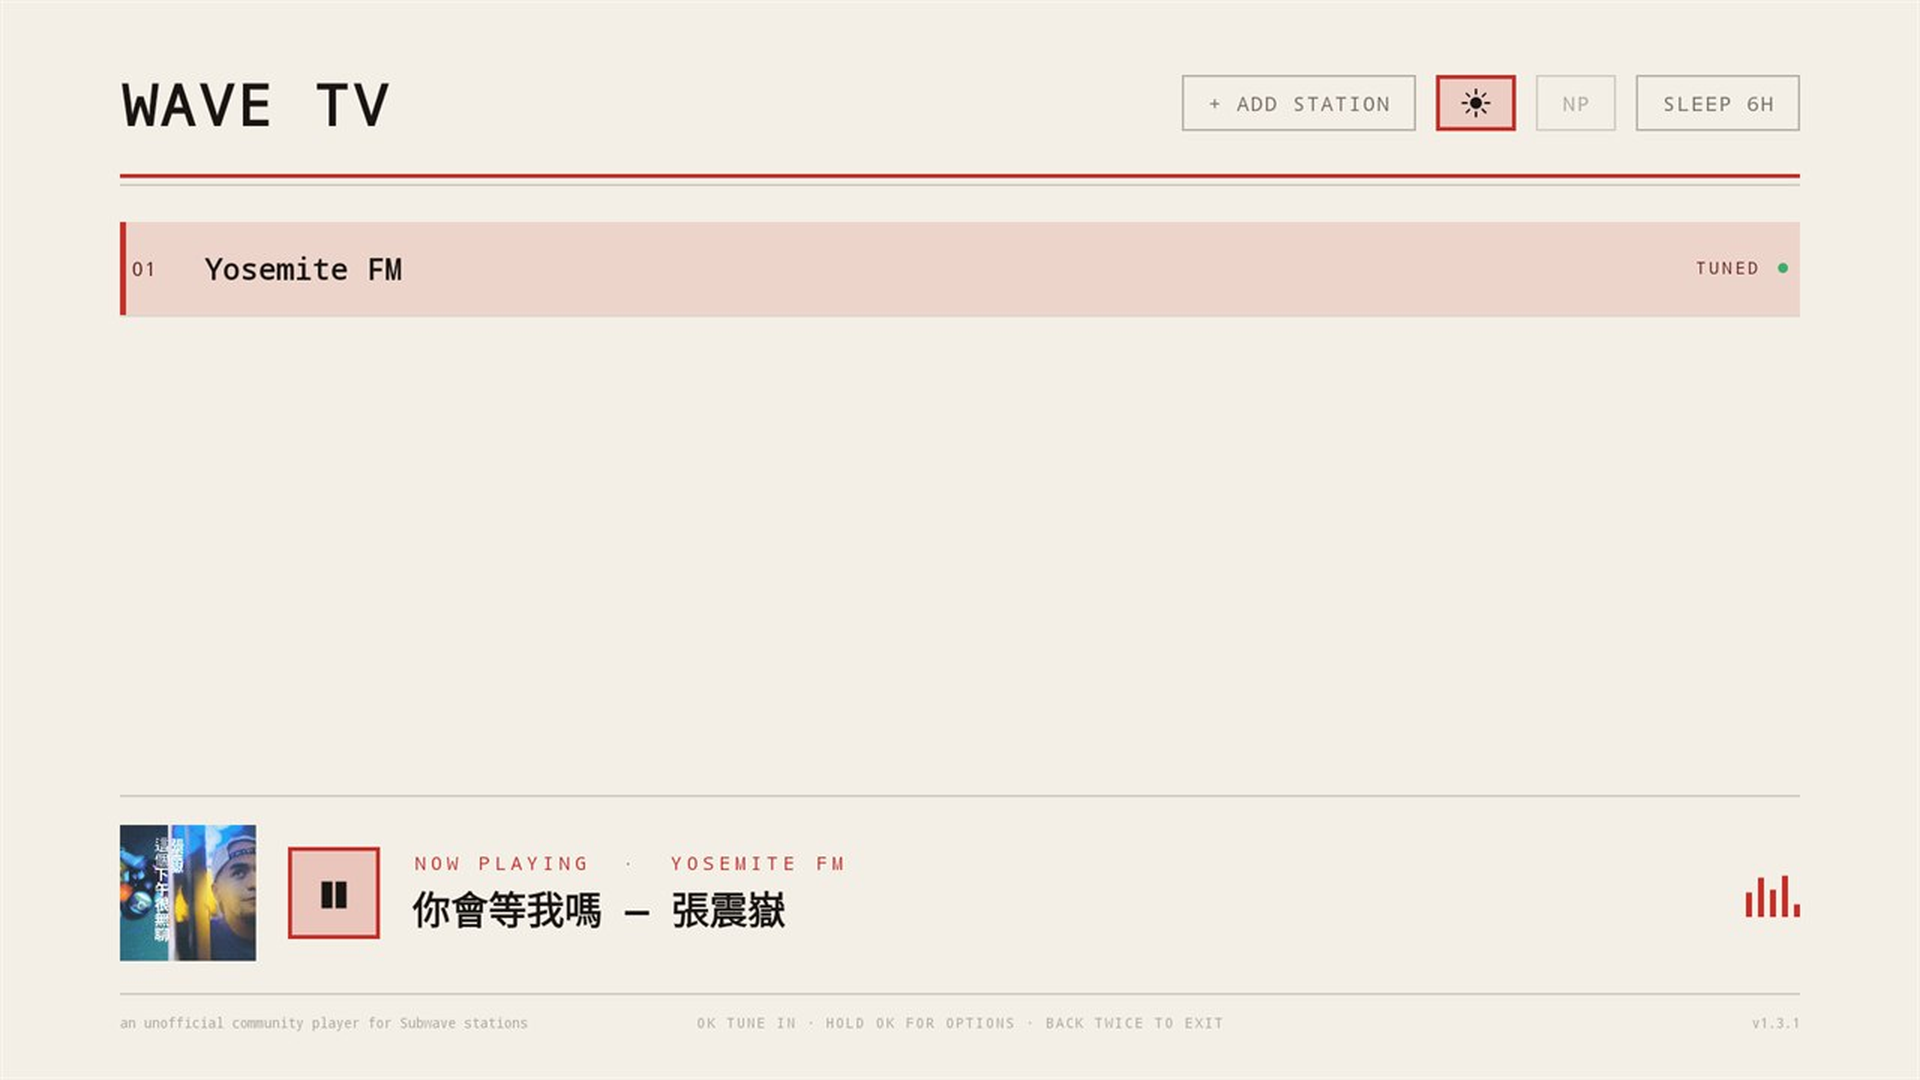
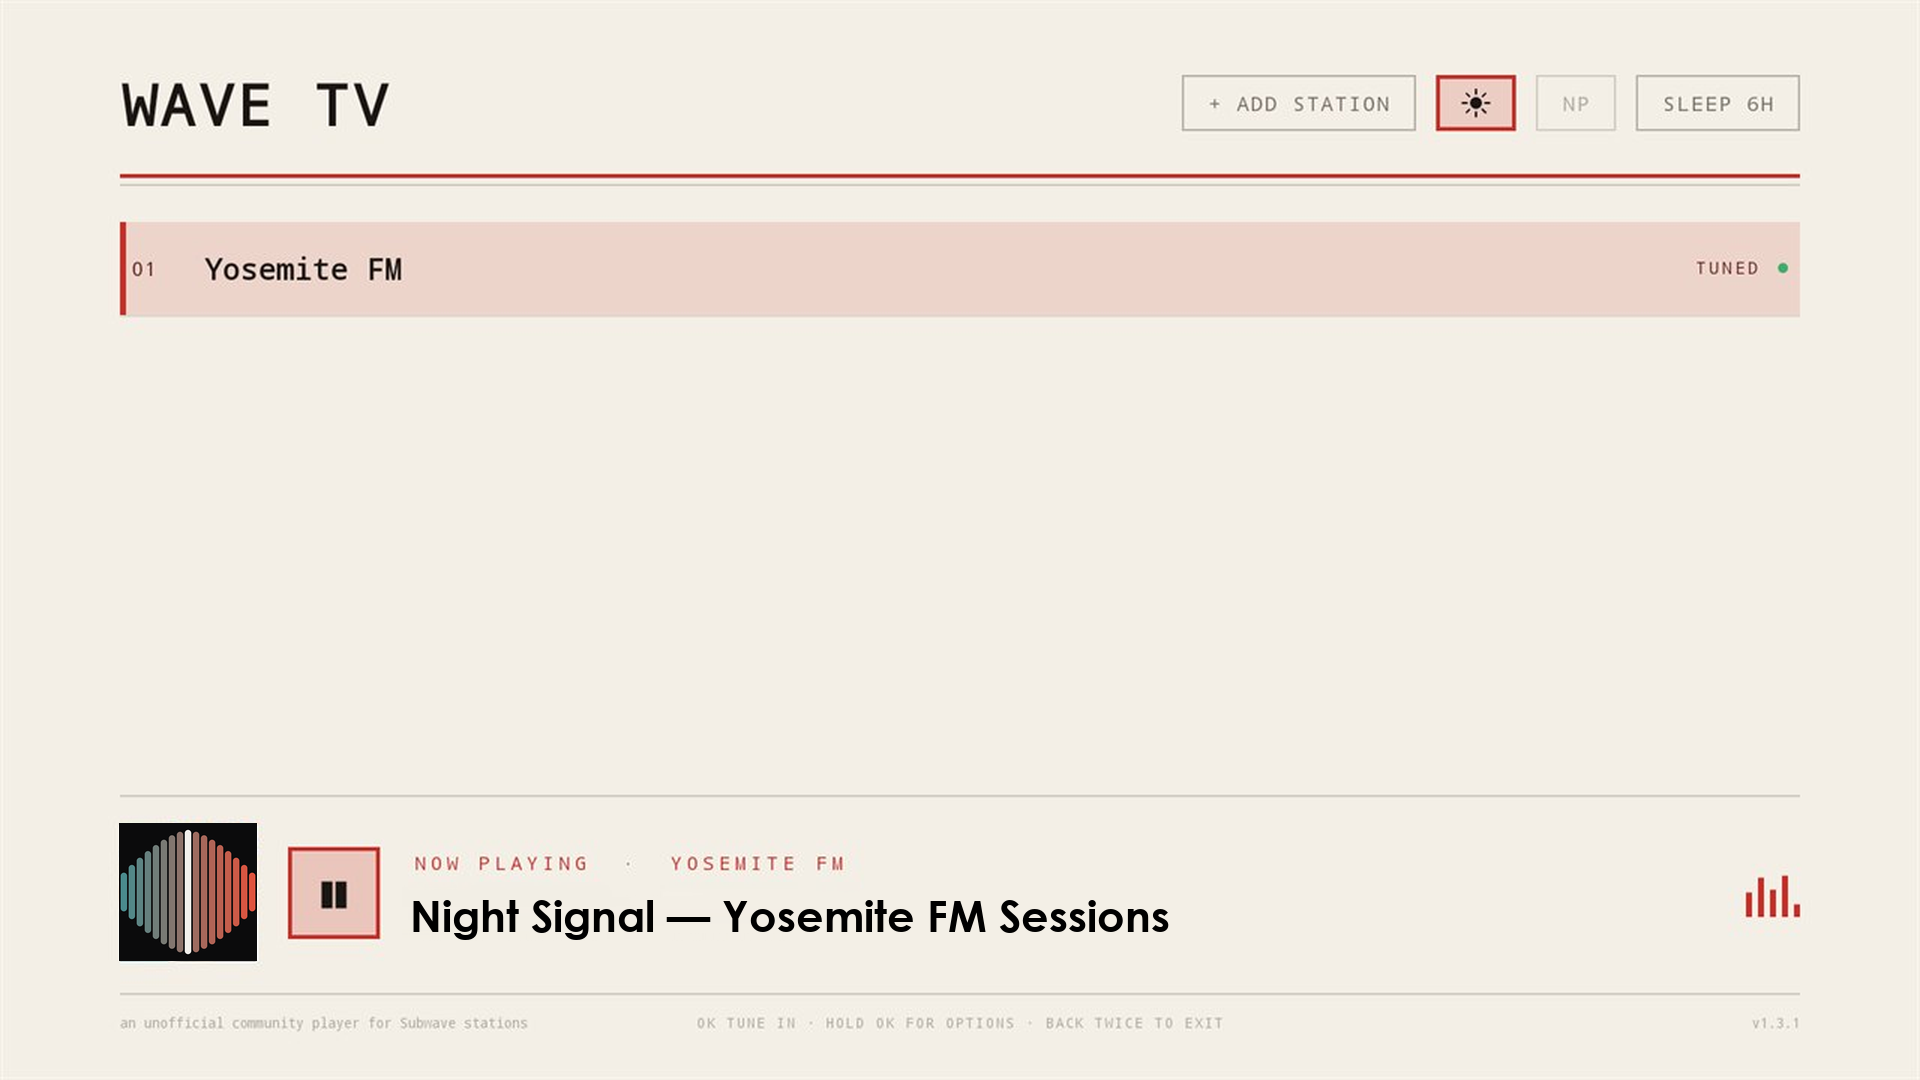
Replace the now-playing content in the screenshots, and cut 1.5.0
All six frames are back, as captures of the app with the now-playing content
substituted: the cover is art/covers/02-spectrum.png and the track, artist,
album and genre metadata name the station's own programming. Only content
changed - no part of the interface, layout or capability was altered or
invented - and docs/screenshots.md records that plainly rather than leaving it
to be discovered.

The README says outright what was implicit: that the usual case is a SUB/WAVE
server on your own home network, which is why a bare LAN address and plain
http:// are accepted at all, and that what plays is then your own library over
your own network. The header banner was also twice the size it needed to be.

versionCode 32 / versionName 1.5.0. The code is untouched, but every launcher
icon, banner and store graphic has changed, and Amazon will not accept a
resubmission on a versionCode it has already seen.

Changed region(s): [[0.2188, 0.825, 0.625, 0.8861], [0.0625, 0.7639, 0.1562, 0.9167]]

diff --git a/docs/screenshots.md b/docs/screenshots.md
@@ -1,30 +1,36 @@
-# Capturing the screenshots
+# The screenshots
 
-The six frames all showed a commercially released single: its cover, its title,
-its artist and album, its genre tags — and, in the player frames, the page tint
-that the Station theme samples out of that cover. That reproduced artwork this
-repository has no licence to, and presented the app as a way to hear commercial
-music. Amazon's content review read it exactly that way.
+The six frames are genuine captures of the app on a television, with the
+now-playing **content** replaced: the cover is `art/covers/02-spectrum.png`,
+original artwork under this repository's MIT licence, and the track, artist,
+album and genre metadata are placeholders naming the station's own
+programming.
 
-**Current state.** The three player frames (`player`, `request`, `keyboard` /
-`04`–`06`) are withheld. The three picker frames (`01`–`03`) are still the old
-captures, kept so the README and the store listing are not bare — Amazon's
-minimum is three. They are *not* clean: each still shows the same cover as a
-small thumbnail with the track title beside it. Replace all six together.
+They previously showed a commercially released single with its real cover,
+title, artist, album and genre tags. That reproduced artwork this repository
+has no licence to, and presented the app as a way to hear commercial music —
+which is not what it is for, and is the likeliest thing to have failed
+Amazon's content review.
 
-## The rule
+## What was and was not changed
 
-Shoot against a station playing material its operator holds the rights to:
-original programming, a talk or mix show, or explicitly licensed or
-public-domain music. `art/covers/` has original artwork, MIT-licensed with
-this repository, for whatever the now-playing panel ends up displaying.
+Only content was substituted. No part of the interface, layout, control or
+capability was altered, added or invented: what the frames show the app doing
+is what the app does. Placeholder content in store screenshots is ordinary
+practice — the app displays whatever the connected station provides, so no one
+track is more representative than another — but the substitution is recorded
+here so the position can be stated plainly if a store ever asks.
+
+## Replacing them
+
+Best is a fresh capture against a station playing material its operator holds
+the rights to: original programming, a talk or mix show, or explicitly
+licensed or public-domain music. Then nothing needs substituting at all.
 
 If a frame would show a record sleeve you did not make and cannot license, it
 is the wrong frame.
 
-## The six frames
-
-Capture at **1920×1080**, one per row below, on a real television.
+Capture at **1920×1080** on a real television.
 
 | File | What it shows |
 | --- | --- |
@@ -38,11 +44,10 @@ Capture at **1920×1080**, one per row below, on a real television.
 ## Where they go
 
 - `store/amazon/screenshots/` and `store/play/screenshots/` — the same six
-  PNGs; both stores took an identical set last time.
+  PNGs; both stores take an identical set.
 - `docs/` — the same frames as JPG (`picker-light.jpg`, `picker-dark.jpg`,
   `picker-minimal.jpg`, `player.jpg`, `request.jpg`, `keyboard.jpg`) for the
-  README table, which is commented out until they exist.
+  README table.
 
-Screenshots must be genuine captures. Do not composite, retouch a cover into a
-frame, or mock the interface up — a store listing is a representation that the
-app looks like that.
+Screenshots must be genuine captures of the running app. Do not mock the
+interface up or invent a control that does not exist.

diff --git a/README.md b/README.md
@@ -1,5 +1,5 @@
 <p align="center">
-  <img src="art/social-preview-1280x640.png" width="640"
+  <img src="art/social-preview-1280x640.png" width="420"
        alt="Wave TV — an unofficial player for SUB/WAVE stations" />
 </p>
 
@@ -33,6 +33,13 @@ this is only the screen in front of it. SUB/WAVE is an internet *radio* server;
 what a station broadcasts, and the rights to broadcast it, belong to whoever
 operates that station.
 
+In practice that most often means a server on your own home network. Wave TV
+accepts a bare LAN address such as `192.168.1.50:7700`, and permits `http://`
+as well as `https://` precisely so a machine sitting in your own house works
+without a certificate — the traffic never leaves the building. Point it at the
+SUB/WAVE server on your NAS or spare PC and it plays your own library, on your
+own television, over your own network.
+
 The app cannot fetch a file. It holds one Android permission, `INTERNET`, and
 has no download code, no storage access and no handoff to any external
 downloader — see [Permissions and privacy](#permissions-and-privacy). Once a
@@ -55,10 +62,21 @@ page.
 <sub><b>Minimal mode.</b> <code>NP</code> folds the panel down to a single strip and gives the list the full width. The level meter keeps moving only while sound is actually coming out.</sub>
 </td>
 </tr>
+<tr>
+<td width="33%" valign="top">
+<img src="docs/player.jpg" width="100%" alt="A SUB/WAVE web player running fullscreen on a television" /><br />
+<sub><b>Everything past the picker is SUB/WAVE's interface.</b> Masthead, waveform, commentary line, side rail and the operator's theme, unmodified. Wave TV contributes the focus navigation and nothing else.</sub>
+</td>
+<td width="33%" valign="top">
+<img src="docs/request.jpg" width="100%" alt="The SUB/WAVE request drawer, opened with a remote" /><br />
+<sub><b>The request drawer, opened by remote.</b> D-pad navigation lands on the page's real controls; decorative targets are skipped so focus only stops where pressing OK does something.</sub>
+</td>
+<td width="33%" valign="top">
+<img src="docs/keyboard.jpg" width="100%" alt="The television's on-screen keyboard over the request drawer, with press-and-hold-to-speak offered" /><br />
+<sub><b>Typing on a television.</b> OK on a focused field raises the keyboard against the real input; the set-top box's own press-and-hold-to-speak dictation works from there.</sub>
+</td>
+</tr>
 </table>
-<!-- The player, request and keyboard frames are withheld: they showed a
-     commercial release's cover, title and metadata, and the page tint the
-     Station theme samples from that cover. See docs/screenshots.md. -->
 
 ## Features
 

diff --git a/RELEASING.md b/RELEASING.md
@@ -10,9 +10,9 @@ Two stores, two artifacts, one codebase:
 Everything either console asks for is already in this repository:
 
 - Listing text, questionnaire answers, reviewer instructions: `store/play/listing.md`, `store/amazon/listing.md`
-- Icons, feature graphic, banner, background: `store/play/`, `store/amazon/`
-- 1920×1080 screenshots: pending re-capture — `docs/screenshots.md` says what to
-  shoot and why the previous set was withdrawn
+- Icons, feature graphic, banner, background, 1920×1080 screenshots:
+  `store/play/`, `store/amazon/` — see `docs/screenshots.md` before replacing
+  the screenshots
 - Privacy policy (both consoles require a URL): `PRIVACY.md` — push it, then use
   `https://github.com/mrain1p/Wave-TV/blob/main/PRIVACY.md`
 
@@ -115,7 +115,7 @@ loads.
 
 ## After launch
 
-- [ ] Tag the release (`git tag v1.4.0`) and attach `WaveTV.apk` + SHA256 to a
+- [ ] Tag the release (`git tag v1.5.0`) and attach `WaveTV.apk` + SHA256 to a
   GitHub release, as before, for anyone building or installing outside a
   store. The README points at the stores and at `## Building`; it no longer
   walks a reader through installing an APK by hand.

diff --git a/store/amazon/screenshots/README.md b/store/amazon/screenshots/README.md
@@ -1,9 +1,5 @@
-Screenshots — see [`docs/screenshots.md`](../../../docs/screenshots.md).
+Six screenshots at 1920×1080 — see [`docs/screenshots.md`](../../../docs/screenshots.md).
 
-`01`–`03` (picker) are the previous captures, kept temporarily. They still show
-a commercial release as a small cover thumbnail with its track title, and are
-due for replacement.
-
-`04`–`06` (player, request, keyboard) are withheld: they showed that cover at
-full size, with the title, artist, album and genre metadata, and the page tint
-the Station theme samples from the cover. Amazon requires three at minimum, which the three present frames meet.
+Genuine captures of the app, with the now-playing cover and track metadata
+replaced by original placeholder content. Nothing about the interface was
+altered.

diff --git a/store/play/screenshots/README.md b/store/play/screenshots/README.md
@@ -1,9 +1,5 @@
-Screenshots — see [`docs/screenshots.md`](../../../docs/screenshots.md).
+Six screenshots at 1920×1080 — see [`docs/screenshots.md`](../../../docs/screenshots.md).
 
-`01`–`03` (picker) are the previous captures, kept temporarily. They still show
-a commercial release as a small cover thumbnail with its track title, and are
-due for replacement.
-
-`04`–`06` (player, request, keyboard) are withheld: they showed that cover at
-full size, with the title, artist, album and genre metadata, and the page tint
-the Station theme samples from the cover.
+Genuine captures of the app, with the now-playing cover and track metadata
+replaced by original placeholder content. Nothing about the interface was
+altered.

diff --git a/store/play/listing.md b/store/play/listing.md
@@ -86,7 +86,7 @@ https://github.com/mrain1p/Wave-TV
 | App icon 512×512 | `icon-512.png` |
 | Feature graphic 1024×500 | `feature-graphic-1024x500.png` |
 | TV banner 1280×720 | `tv-banner-1280x720.png` |
-| TV screenshots (16:9) | `screenshots/` — three picker frames; player frames pending, see `docs/screenshots.md` |
+| TV screenshots (16:9) | `screenshots/*.png` (six, 1920×1080) |
 
 ## App access → "All or some functionality is restricted" → instructions
 

diff --git a/store/amazon/listing.md b/store/amazon/listing.md
@@ -111,7 +111,7 @@ https://github.com/mrain1p/Wave-TV
 | Large icon 512×512 | `icon-512.png` |
 | Fire TV icon 1280×720 | `firetv-icon-1280x720.png` |
 | Background image 1920×1080 | `background-1920x1080.png` |
-| Screenshots 1920×1080 (3–10) | `screenshots/` — three picker frames; player frames pending, see `docs/screenshots.md` |
+| Screenshots 1920×1080 (3–10) | `screenshots/*.png` (six) |
 
 ## Testing instructions (for the review team)
 
